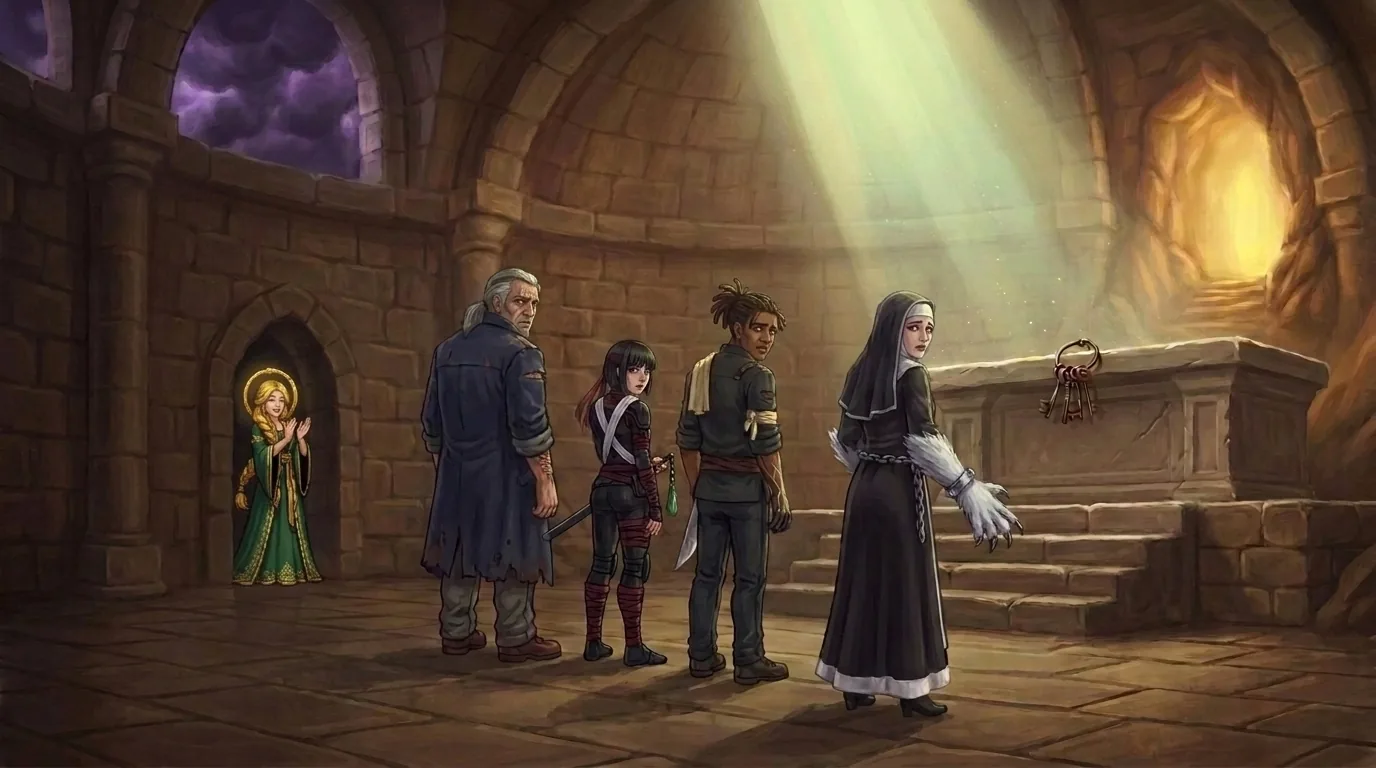
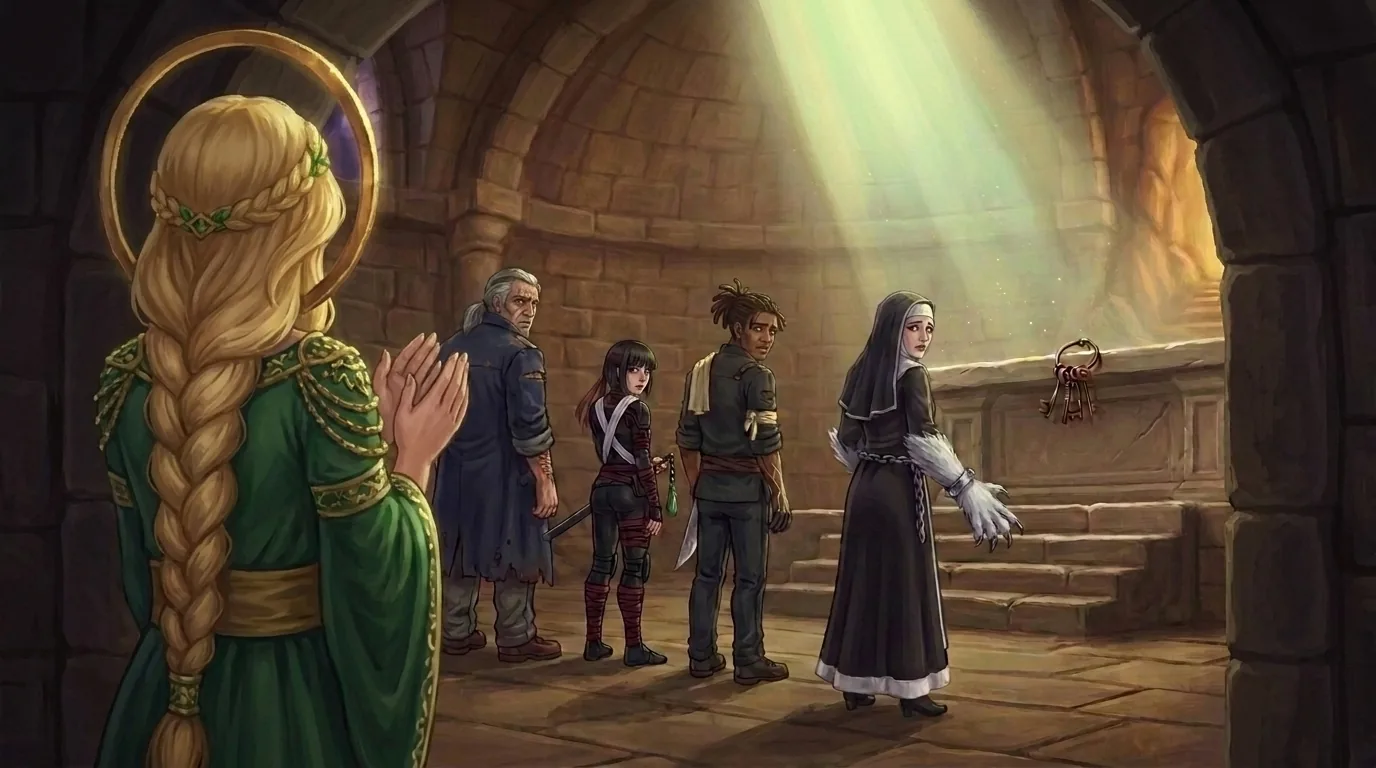
Chapter 1 reveal: "We did it!" from behind Freya in the doorway, the leads turning to her
Claude-Session: https://claude.ai/code/session_013MZZKN1euAXp7bT7v22n7j

Changed region(s): [[0.0, 0.0, 0.3438, 1.0], [0.7812, 0.0, 1.0, 1.0]]

diff --git a/game/CREDITS.md b/game/CREDITS.md
@@ -13,7 +13,7 @@ Everything here was first made for or gathered by the first game, [Isekai'd Into
 | Chapter 1's painted prologue art: Mira's tower-stair background and the still of her holding Bram (`assets/img/vn/m1.webp`, `m2.webp`), and the sprites of Mira grieving and Freya smiling (`mira-grief.webp`, `freya-smile.webp`) | Generated for this game with Google's Gemini 3 Pro Image through the Gemini API on Ladi's account on 2026-10-20, painted from Ladi's concept-art picks, then resized (sprites cut out from a flat backdrop) | Used under the [Gemini API Additional Terms of Service](https://ai.google.dev/gemini-api/terms) | The visual-novel prologues (`js/vn.js`) |
 | The rest of the four backstories' stills, one per shot of the backstory storyboard (`assets/img/vn/m2b` to `m3c`, `k1` to `k3c`, `s0a` to `s7c`, `d1` to `d1c`) | Generated for this game with Google's Gemini image model (gemini-nano-banana-2.1) through the Gemini API on Ladi's account on 2026-10-21, from the agreed character designs, the two Mira stills above and Ladi's chosen Freya reference sheet; each Freya shot is an edit of the shot before it, then resized | Used under the [Gemini API Additional Terms of Service](https://ai.google.dev/gemini-api/terms) | The visual-novel prologues (`js/ch1-story.js`) |
 | The opening scene's painted stills: the lightning shots, the pavilion's two angles with Freya's eight faces, the close-ups and inserts, and the closing shot of Freya alone (`assets/img/opening/*.webp`) | Generated for this game with Google's Gemini image model (gemini-nano-banana-2.1) through the Gemini API on Ladi's account on 2026-10-21, from Ladi's chosen Freya reference sheet and the storyboard; faces swapped in with a masked edit, then resized; the ID photos on the files repainted as the four leads (Mira, Kai, Seo-yeon, Dutch, from their PixelLab portraits) the same way, with the hand-on-the-file shot in one version per lead (`s12-<lead>.webp`) | Used under the [Gemini API Additional Terms of Service](https://ai.google.dev/gemini-api/terms) | The opening, "the files" (`js/vec-open.js`) |
-| Chapter 1's reveal stills (`assets/img/cut/reveal-*.webp`): the vault, the party and Freya's walk past each lead, the keys, Freya's faces in the locked pose and the virus after it | Generated for this game with Google's Gemini image model (gemini-3-pro-image-preview) through the Gemini API on Ladi's account on 2026-10-21 and 2026-10-22, from the storyboard (`storyboard/ch1/12-the-reveal.md`), the leads' and Freya's sprites and portraits as references: one wide painting of the vault, widened from the goddess still, and every other shot an edit or a crop of it. The shots were re-staged on 2026-10-22 from a new wide picture: the leads turning to Freya, their shocked close-ups, Uptima faint in the alcove light, the basket with the four presents, and Freya's closed-mouth grimace (`reveal-G2.webp`). `reveal-5.webp` was edited the same day so Freya looks up at Uptima, mouth closed, and Uptima looks down at her; `reveal-1.webp` so Freya in the alcove looks at the keys. The three pixel glitch frames (`reveal-glitch.webp`: promoter, goddess, virus) are those paintings converted with [PixelLab](https://pixellab.ai)'s image-to-pixel-art on Ladi's subscription | Used under the [Gemini API Additional Terms of Service](https://ai.google.dev/gemini-api/terms) and PixelLab's [Terms of Service](https://pixellab.ai/termsofservice) | Chapter 1's ending (`js/cut-reveal.js`) |
+| Chapter 1's reveal stills (`assets/img/cut/reveal-*.webp`): the vault, the party and Freya's walk past each lead, the keys, Freya's faces in the locked pose and the virus after it | Generated for this game with Google's Gemini image model (gemini-3-pro-image-preview) through the Gemini API on Ladi's account on 2026-10-21 and 2026-10-22, from the storyboard (`storyboard/ch1/12-the-reveal.md`), the leads' and Freya's sprites and portraits as references: one wide painting of the vault, widened from the goddess still, and every other shot an edit or a crop of it. The shots were re-staged on 2026-10-22 from a new wide picture: the leads turning to Freya, their shocked close-ups, Uptima faint in the alcove light, the basket with the four presents, and Freya's closed-mouth grimace (`reveal-G2.webp`). `reveal-5.webp` was edited the same day so Freya looks up at Uptima, mouth closed, and Uptima looks down at her; `reveal-1.webp` so Freya in the alcove looks at the keys; and `reveal-3.webp` is a new shot from behind Freya in the doorway, the leads turning to her. The three pixel glitch frames (`reveal-glitch.webp`: promoter, goddess, virus) are those paintings converted with [PixelLab](https://pixellab.ai)'s image-to-pixel-art on Ladi's subscription | Used under the [Gemini API Additional Terms of Service](https://ai.google.dev/gemini-api/terms) and PixelLab's [Terms of Service](https://pixellab.ai/termsofservice) | Chapter 1's ending (`js/cut-reveal.js`) |
 | Chapters 3 to 5's cutscene stills (`assets/img/cut/<cutscene>.webp`, one sheet per cutscene from `ask` to `the-badge-on-the-nail`, plus Chapter 3's earlier cutscenes from `tax-season` to `tell-her-yourself`), one pixel-art still per storyboard shot | Generated for this game with [PixelLab](https://pixellab.ai) on Ladi's subscription on 2026-10-22, from the storyboards (`storyboard/ch3`, `ch4`, `ch5`) with the cast's sprites and each cutscene's wide shot as references. A few were mirrored, and some had one small part repainted (a sheathed knife, a sash, hair colour, windows, the writing in a letter, Kai's gold hand) by Google's Gemini image model (gemini-3-pro-image-preview) through the Gemini API on Ladi's account, snapped back to the still's own pixels and colours | Used under PixelLab's [Terms of Service](https://pixellab.ai/termsofservice); the repaints under the [Gemini API Additional Terms of Service](https://ai.google.dev/gemini-api/terms) | Chapters 3 to 5's cutscenes, in place of the vector stills (`js/cut-ch3.js`, `cut-ch4.js`, `cut-ch4b.js`, `cut-ch5.js`) |
 | The opening's and the backstory cutscenes' voice lines (`assets/audio/vo/*.mp3`) | Generated for this game with Google's Gemini text-to-speech through the Gemini API on Ladi's account on 2026-10-21: Freya and Kagemaru on gemini-3.8-flash-tts (Freya: Despina, Kagemaru: Algenib; `freya-*` and `man-op-*`), Mira and Seo-yeon on gemini-3.8-flash-lite-tts (Mira: Gacrux, Seo-yeon: Kore), Dutch and Kai on gemini-2.5-pro-preview-tts (Dutch: Charon, Kai: Alnilam), and the people they lost on gemini-2.5-pro-preview-tts (Bram: Sadachbia, Hana: Leda, Jin: Fenrir, Old Gu: Enceladus, the Alliance Leader: Iapetus, Lina: Zephyr), trimmed | Used under the [Gemini API Additional Terms of Service](https://ai.google.dev/gemini-api/terms) | The spoken lines in the visual-novel scenes (`js/vo.js`) |
 | Chapter 2's voice lines (`assets/audio/vo/*-c2-*.mp3`) | Generated for this game with Google's Gemini text-to-speech through the Gemini API on Ladi's account on 2026-10-21 and 2026-10-22, trimmed: Mira (Gacrux) and Seo-yeon (Kore) on gemini-3.8-flash-lite-tts; Kai (Alnilam) and Dutch (Charon) on gemini-2.5-pro-preview-tts; Seymour (Orus) and Elder Wren, faithful (Sadaltager) on gemini-2.5-flash-preview-tts; Coo (Puck) on gemini-3.1-flash-tts-preview; Freya (Despina) on gemini-3.8-flash-tts | Used under the [Gemini API Additional Terms of Service](https://ai.google.dev/gemini-api/terms) | Chapter 2 act 1's spoken lines (`js/vo-c2.js`) |
